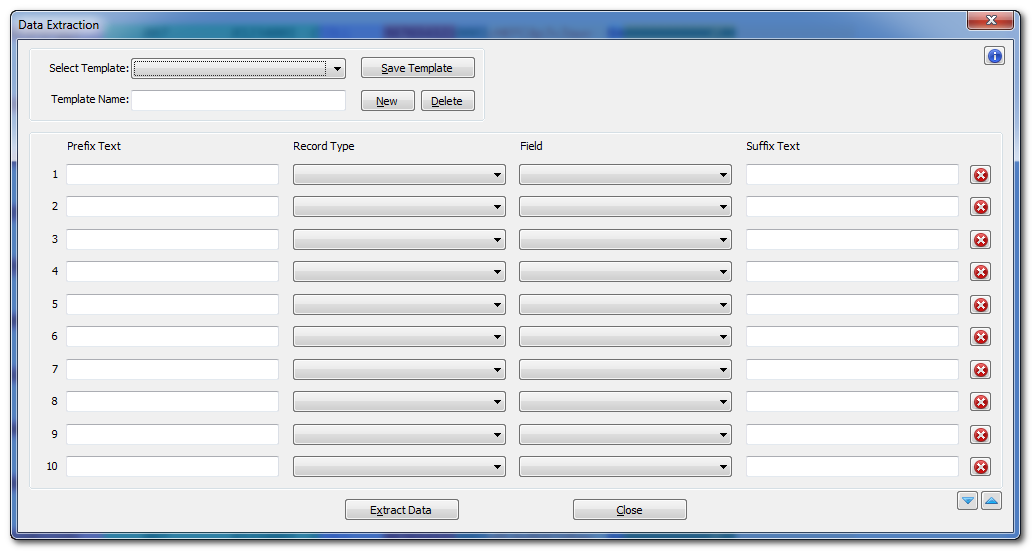
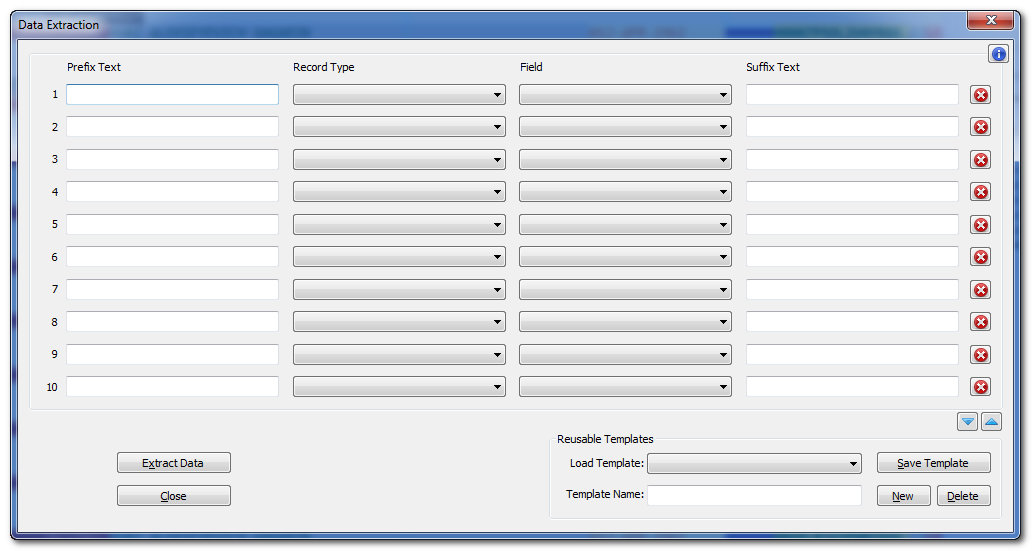
Data Extract dialog layout changed. Added localization.

diff --git a/src/Dialogs/DataExtractDialog.cpp b/src/Dialogs/DataExtractDialog.cpp
@@ -8,7 +8,7 @@ extern VisualizerPanel _vizPanel;
 void DataExtractDialog::doDialog(HINSTANCE hInst) {
    if (!isCreated()) {
       Window::init(hInst, nppData._nppHandle);
-      create(IDD_DATA_EXTRACTOR_DIALOG);
+      create(IDD_DATA_EXTRACT_DIALOG);
    }
 
    for (int i{}; i < listedItemCount; i++) {
@@ -34,7 +34,7 @@ void DataExtractDialog::doDialog(HINSTANCE hInst) {
 
 void DataExtractDialog::initDialog(const wstring fileType) {
    initDocFileType = fileType;
-   SetFocus(GetDlgItem(_hSelf, IDC_DAT_EXT_TEMPLATE_LIST));
+   SetFocus(GetDlgItem(_hSelf, IDC_DAT_EXT_ITEM_PREFIX_01));
 }
 
 INT_PTR CALLBACK DataExtractDialog::run_dlgProc(UINT message, WPARAM wParam, LPARAM) {
@@ -57,9 +57,18 @@ INT_PTR CALLBACK DataExtractDialog::run_dlgProc(UINT message, WPARAM wParam, LPA
 }
 
 void DataExtractDialog::localize() {
-   //SetWindowText(_hSelf, JUMP_FIELD_DIALOG_TITLE);
-   //SetDlgItemText(_hSelf, IDC_JUMP_FIELD_LABEL, JUMP_FIELD_SELECT_LABEL);
-   //SetDlgItemText(_hSelf, IDC_JUMP_FIELD_GO_BTN, JUMP_FIELD_GO_BTN);
-   //SetDlgItemText(_hSelf, IDCLOSE, JUMP_FIELD_CLOSE_BTN);
+   SetWindowText(_hSelf, DATA_EXTRACT_DIALOG_TITLE);
+   SetDlgItemText(_hSelf, IDC_DAT_EXT_PREFIX_LABEL, DATA_EXTRACT_PREFIX_LABEL);
+   SetDlgItemText(_hSelf, IDC_DAT_EXT_RECORD_LABEL, DATA_EXTRACT_RECORD_LABEL);
+   SetDlgItemText(_hSelf, IDC_DAT_EXT_FIELD_LABEL, DATA_EXTRACT_FIELD_LABEL);
+   SetDlgItemText(_hSelf, IDC_DAT_EXT_SUFFIX_LABEL, DATA_EXTRACT_SUFFIX_LABEL);
+   SetDlgItemText(_hSelf, IDC_DAT_EXT_EXTRACT_BTN, DATA_EXTRACT_EXTRACT_BTN);
+   SetDlgItemText(_hSelf, IDCLOSE, DATA_EXTRACT_CLOSE_BTN);
+   SetDlgItemText(_hSelf, IDC_DAT_EXT_TEMPLATE_GROUP, DATA_EXTRACT_TEMPLATE_GROUP);
+   SetDlgItemText(_hSelf, IDC_DAT_EXT_TEMPLATE_LIST_LABEL, DATA_EXTRACT_TEMPLATE_LOAD);
+   SetDlgItemText(_hSelf, IDC_DAT_EXT_TEMPLATE_NAME_LABEL, DATA_EXTRACT_TEMPLATE_NAME);
+   SetDlgItemText(_hSelf, IDC_DAT_EXT_TEMPLATE_SAVE_BTN, DATA_EXTRACT_TEMPLATE_SAVE);
+   SetDlgItemText(_hSelf, IDC_DAT_EXT_TEMPLATE_NEW_BTN, DATA_EXTRACT_TEMPLATE_NEW);
+   SetDlgItemText(_hSelf, IDC_DAT_EXT_TEMPLATE_DEL_BTN, DATA_EXTRACT_TEMPLATE_DEL);
 }
 

diff --git a/src/Resources/resource.h b/src/Resources/resource.h
@@ -1683,15 +1683,8 @@
 #define IDC_JUMP_FIELD_LABEL            9421
 #define IDC_JUMP_FIELD_LIST             9422
 #define IDC_JUMP_FIELD_GO_BTN           9423
-#define IDD_DATA_EXTRACTOR_DIALOG       9500
+#define IDD_DATA_EXTRACT_DIALOG         9500
 #define IDC_DAT_EXT_INFO_BUTTON         9501
-#define IDC_DAT_EXT_TEMPLATE_LIST_LABEL 9502
-#define IDC_DAT_EXT_TEMPLATE_LIST       9503
-#define IDC_DAT_EXT_TEMPLATE_NAME_LABEL 9504
-#define IDC_DAT_EXT_TEMPLATE_NAME       9505
-#define IDC_DAT_EXT_TEMPLATE_SAVE_BTN   9506
-#define IDC_DAT_EXT_TEMPLATE_NEW_BTN    9507
-#define IDC_DAT_EXT_TEMPLATE_DEL_BTN    9508
 #define IDC_DAT_EXT_PREFIX_LABEL        9511
 #define IDC_DAT_EXT_RECORD_LABEL        9512
 #define IDC_DAT_EXT_FIELD_LABEL         9513
@@ -1759,6 +1752,14 @@
 #define IDC_DAT_EXT_ITEM_DEL_BTN_08     9628
 #define IDC_DAT_EXT_ITEM_DEL_BTN_09     9629
 #define IDC_DAT_EXT_ITEM_DEL_BTN_10     9630
+#define IDC_DAT_EXT_TEMPLATE_GROUP      9641
+#define IDC_DAT_EXT_TEMPLATE_LIST_LABEL 9642
+#define IDC_DAT_EXT_TEMPLATE_LIST       9643
+#define IDC_DAT_EXT_TEMPLATE_NAME_LABEL 9644
+#define IDC_DAT_EXT_TEMPLATE_NAME       9645
+#define IDC_DAT_EXT_TEMPLATE_SAVE_BTN   9646
+#define IDC_DAT_EXT_TEMPLATE_NEW_BTN    9647
+#define IDC_DAT_EXT_TEMPLATE_DEL_BTN    9648
 #define IDD_ABOUT_DIALOG                9900
 #define IDC_ABOUT_NAME                  9901
 #define IDC_ABOUT_VERSION               9902

diff --git a/src/Resources/localization.h b/src/Resources/localization.h
@@ -166,9 +166,22 @@
 
 
 // Data Extraction Dialog
+#define DATA_EXTRACT_DIALOG_TITLE   L"Data Extraction"
+#define DATA_EXTRACT_PREFIX_LABEL   L"Prefix Text"
+#define DATA_EXTRACT_RECORD_LABEL   L"Record Type"
+#define DATA_EXTRACT_FIELD_LABEL    L"Field"
+#define DATA_EXTRACT_SUFFIX_LABEL   L"Suffix Text"
+#define DATA_EXTRACT_DELETE_ITEM    L"Delete this Item"
 #define DATA_EXTRACT_MOVE_DOWN      L"Move down the selected Item"
 #define DATA_EXTRACT_MOVE_UP        L"Move up the selected Item"
-#define DATA_EXTRACT_DELETE_ITEM    L"Delete this Item"
+#define DATA_EXTRACT_EXTRACT_BTN    L"E&xtract Data"
+#define DATA_EXTRACT_CLOSE_BTN      L"&Close"
+#define DATA_EXTRACT_TEMPLATE_GROUP L"Reusable Templates"
+#define DATA_EXTRACT_TEMPLATE_LOAD  L"Load Template:"
+#define DATA_EXTRACT_TEMPLATE_NAME  L"Template Name:"
+#define DATA_EXTRACT_TEMPLATE_SAVE  L"&Save Template"
+#define DATA_EXTRACT_TEMPLATE_NEW   L"&New"
+#define DATA_EXTRACT_TEMPLATE_DEL   L"&Delete"
 
 
 // Info Button Links
